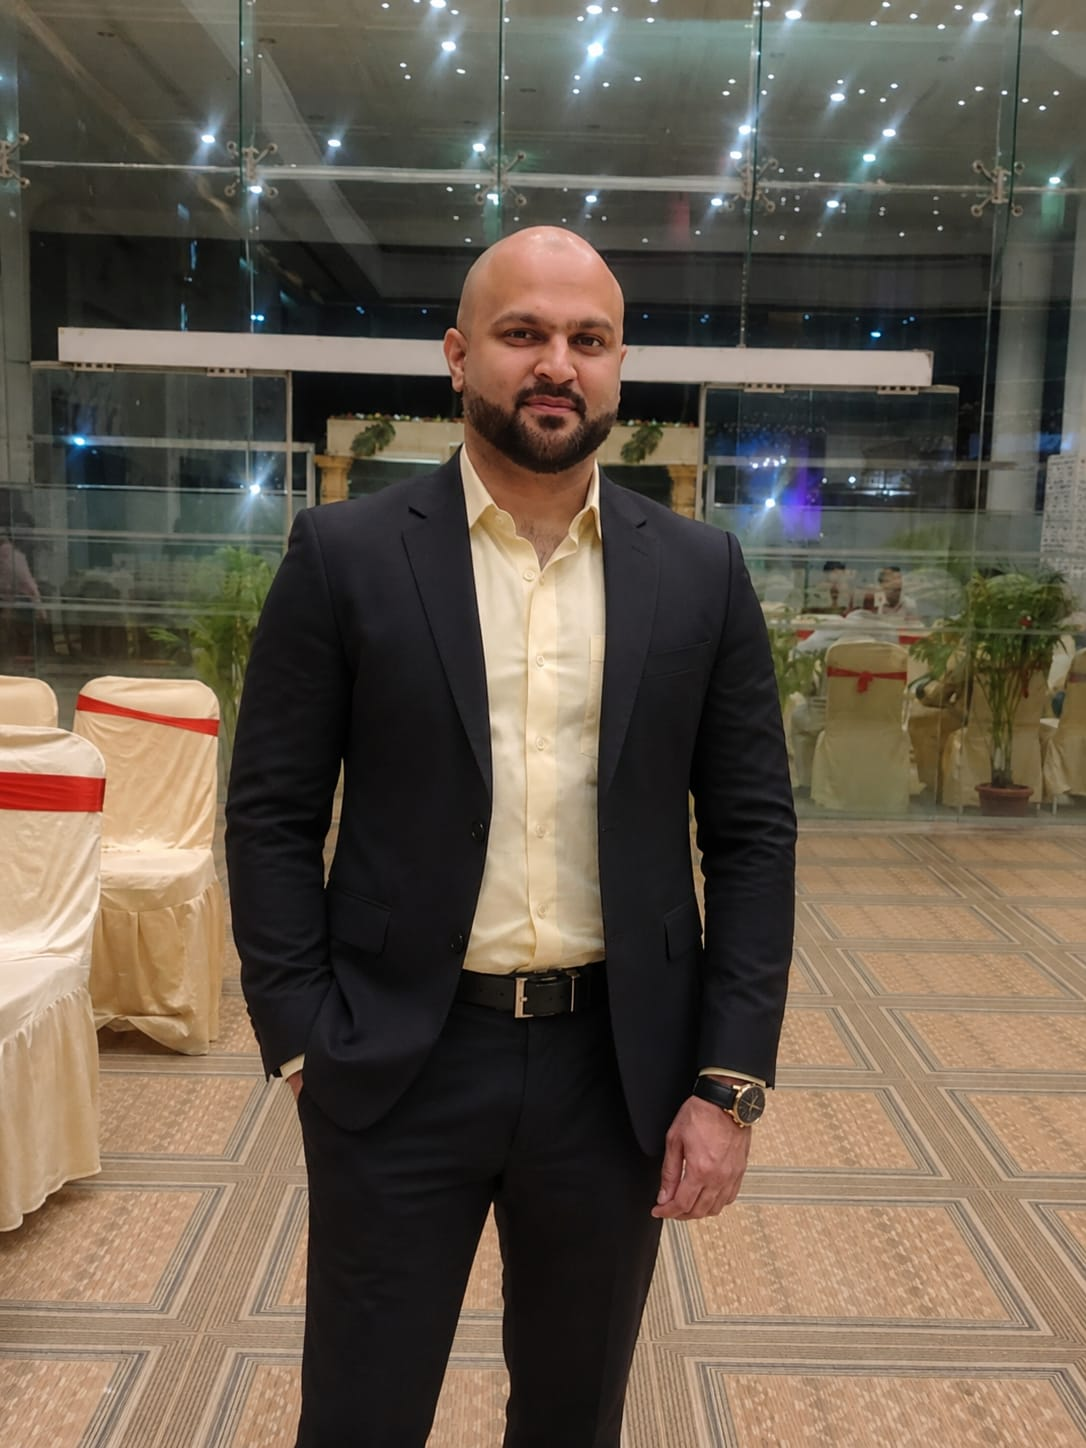
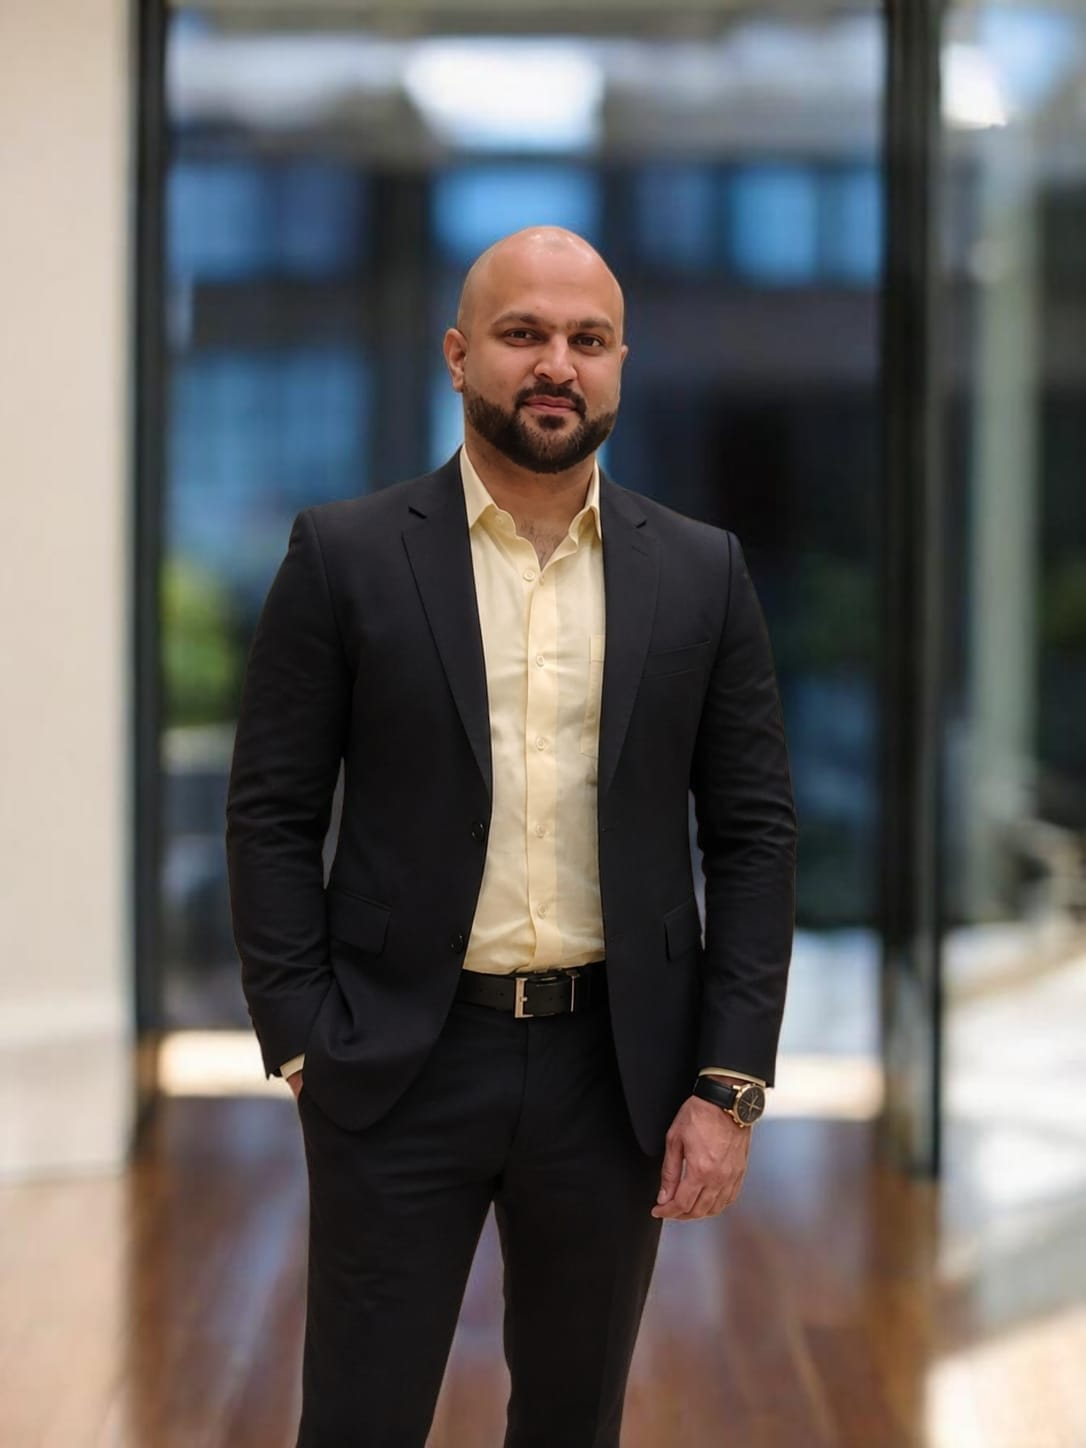
Update founder photo references and confirm mappings in data.php

diff --git a/includes/data.php b/includes/data.php
@@ -161,14 +161,15 @@ const ONGOING_PHOTOS = ['1541888946425-d81bb19240f5', '1504307651254-35680f356df
 
 /**
  * Founders. `photo` is the file stem in assets/img/team.
- * TODO: confirm the photo-to-name mapping and the spelling of the family name.
+ * Photos confirmed by the user: Abdul Rab is the pinstripe-suit portrait (mohammed.*),
+ * Mohammed Albosi the cream-shirt portrait (abdullah.*). TODO: confirm family-name spelling.
  */
 const FOUNDERS = [
     [
         'name'       => 'Abdul Rab bin Abdullah Al Bosi',
         'short'      => 'Abdul Rab',
         'role'       => 'Founder & Director',
-        'photo'      => 'abdullah',
+        'photo'      => 'mohammed',
         'credential' => "Master's Degree in Sales & Marketing · 12+ years in real estate, Jeddah",
         'intro'      => 'Returned from over 12 years in the Saudi Arabian real-estate market to build a company around affordability, trust and customer-centric development.',
         'bio'        => [
@@ -182,7 +183,7 @@ const FOUNDERS = [
         'name'       => 'Mohammed Albosi',
         'short'      => 'Mohammed',
         'role'       => 'Co-Founder & Director',
-        'photo'      => 'mohammed',
+        'photo'      => 'abdullah',
         'credential' => 'Sales & Marketing · Real-estate experience, Saudi Arabia',
         'intro'      => 'A Saudi-returned professional who joined his brother with the same values, vision and determination.',
         'bio'        => [
